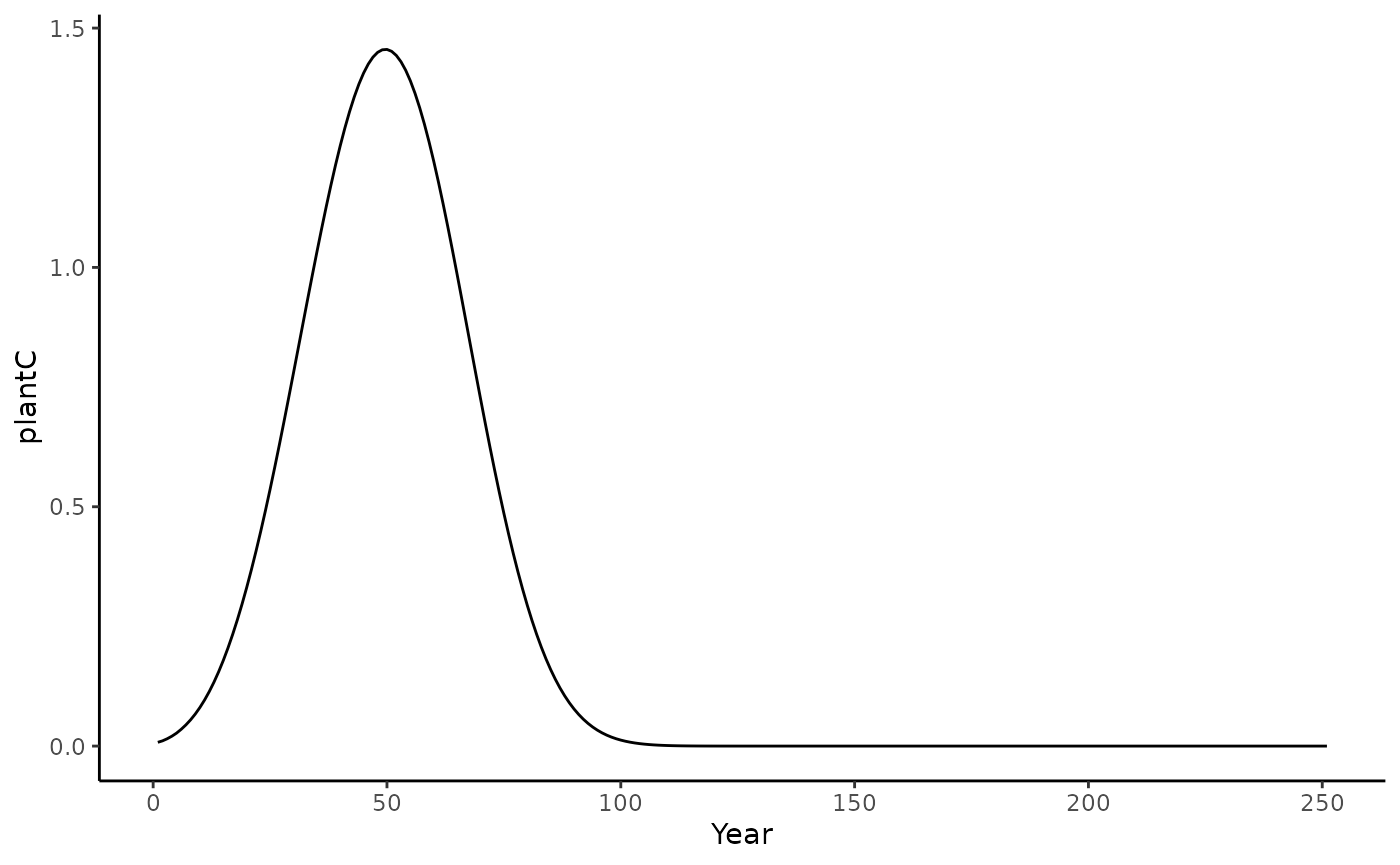
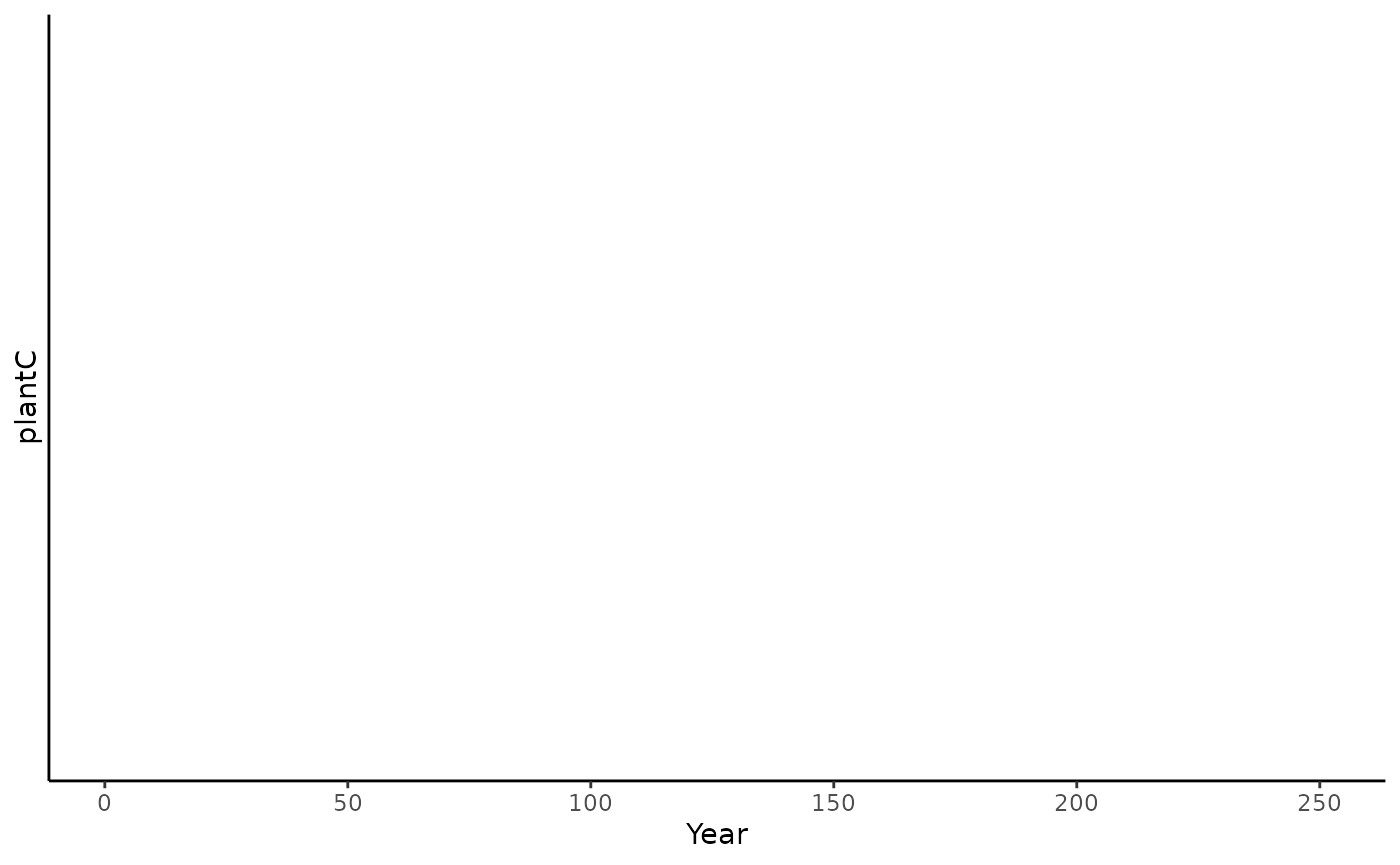
Deploying to gh-pages from @ geco-bern/rsofun@4c23549989c91cba0ebf4f972479215f063a9d4c 🚀

diff --git a/articles/biomee_use.html b/articles/biomee_use.html
@@ -274,14 +274,16 @@ evaluated.</p>
 <span><span class="va">biomee_p_model_output</span> <span class="op"><a href="https://magrittr.tidyverse.org/reference/pipe.html" class="external-link">%&gt;%</a></span> </span>
 <span>  <span class="fu"><a href="https://ggplot2.tidyverse.org/reference/ggplot.html" class="external-link">ggplot</a></span><span class="op">(</span><span class="op">)</span> <span class="op">+</span></span>
 <span>  <span class="fu"><a href="https://ggplot2.tidyverse.org/reference/geom_path.html" class="external-link">geom_line</a></span><span class="op">(</span><span class="fu"><a href="https://ggplot2.tidyverse.org/reference/aes.html" class="external-link">aes</a></span><span class="op">(</span>x <span class="op">=</span> <span class="va">year</span>, y <span class="op">=</span> <span class="va">GPP</span><span class="op">)</span><span class="op">)</span> <span class="op">+</span></span>
-<span>  <span class="fu"><a href="https://ggplot2.tidyverse.org/reference/ggtheme.html" class="external-link">theme_classic</a></span><span class="op">(</span><span class="op">)</span><span class="op">+</span><span class="fu"><a href="https://ggplot2.tidyverse.org/reference/labs.html" class="external-link">labs</a></span><span class="op">(</span>x <span class="op">=</span> <span class="st">"Year"</span>, y <span class="op">=</span> <span class="st">"GPP"</span><span class="op">)</span></span></code></pre></div>
+<span>  <span class="fu"><a href="https://ggplot2.tidyverse.org/reference/ggtheme.html" class="external-link">theme_classic</a></span><span class="op">(</span><span class="op">)</span><span class="op">+</span><span class="fu"><a href="https://ggplot2.tidyverse.org/reference/labs.html" class="external-link">labs</a></span><span class="op">(</span>x <span class="op">=</span> <span class="st">"Year"</span>, y <span class="op">=</span> <span class="st">"GPP"</span><span class="op">)</span></span>
+<span><span class="co">#&gt; Warning: Removed 1 row containing missing values (`geom_line()`).</span></span></code></pre></div>
 <p><img src="biomee_use_files/figure-html/unnamed-chunk-7-1.png" width="700"></p>
 <div class="sourceCode" id="cb9"><pre class="downlit sourceCode r">
 <code class="sourceCode R"><span></span>
 <span><span class="va">biomee_p_model_output</span> <span class="op"><a href="https://magrittr.tidyverse.org/reference/pipe.html" class="external-link">%&gt;%</a></span> </span>
 <span>  <span class="fu"><a href="https://ggplot2.tidyverse.org/reference/ggplot.html" class="external-link">ggplot</a></span><span class="op">(</span><span class="op">)</span> <span class="op">+</span></span>
 <span>  <span class="fu"><a href="https://ggplot2.tidyverse.org/reference/geom_path.html" class="external-link">geom_line</a></span><span class="op">(</span><span class="fu"><a href="https://ggplot2.tidyverse.org/reference/aes.html" class="external-link">aes</a></span><span class="op">(</span>x <span class="op">=</span> <span class="va">year</span>, y <span class="op">=</span> <span class="va">plantC</span><span class="op">)</span><span class="op">)</span> <span class="op">+</span></span>
-<span>  <span class="fu"><a href="https://ggplot2.tidyverse.org/reference/ggtheme.html" class="external-link">theme_classic</a></span><span class="op">(</span><span class="op">)</span><span class="op">+</span><span class="fu"><a href="https://ggplot2.tidyverse.org/reference/labs.html" class="external-link">labs</a></span><span class="op">(</span>x <span class="op">=</span> <span class="st">"Year"</span>, y <span class="op">=</span> <span class="st">"plantC"</span><span class="op">)</span></span></code></pre></div>
+<span>  <span class="fu"><a href="https://ggplot2.tidyverse.org/reference/ggtheme.html" class="external-link">theme_classic</a></span><span class="op">(</span><span class="op">)</span><span class="op">+</span><span class="fu"><a href="https://ggplot2.tidyverse.org/reference/labs.html" class="external-link">labs</a></span><span class="op">(</span>x <span class="op">=</span> <span class="st">"Year"</span>, y <span class="op">=</span> <span class="st">"plantC"</span><span class="op">)</span></span>
+<span><span class="co">#&gt; Warning: Removed 251 rows containing missing values (`geom_line()`).</span></span></code></pre></div>
 <p><img src="biomee_use_files/figure-html/unnamed-chunk-7-2.png" width="700"></p>
 </div>
 </div>
